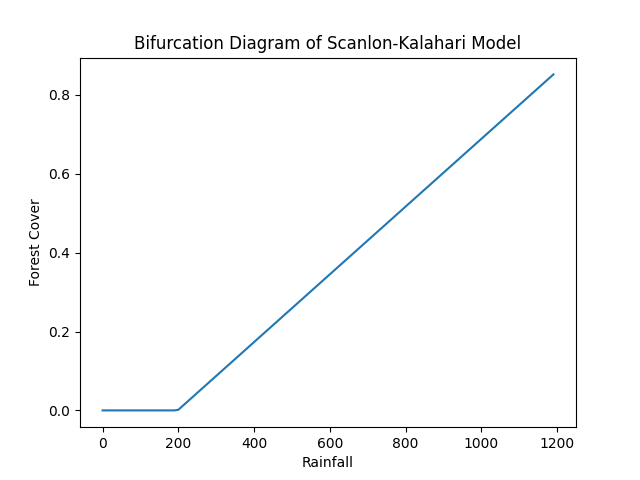
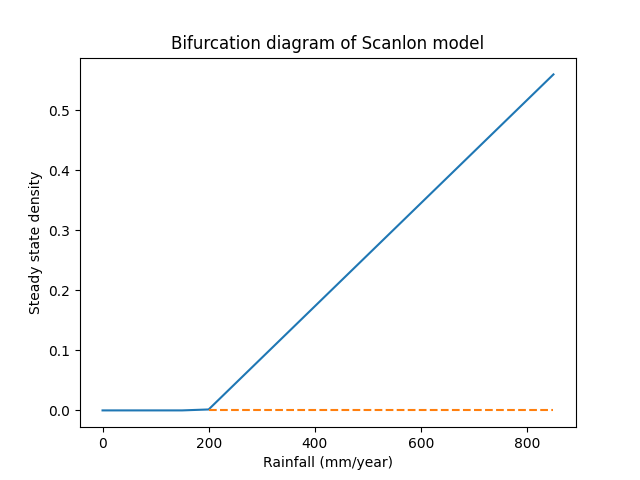
Compiled changes

diff --git a/cluster_dynamics.py b/cluster_dynamics.py
@@ -140,9 +140,12 @@ def test_growth():
     plt.subplot(121)
     plt.title("Initial lattice")
     plt.imshow(old_labels)
+    plt.axis("off")
     plt.subplot(122)
     plt.title("Grown cluster")
     plt.imshow(new_labels)
+    plt.axis("off")
+    # plt.savefig("growth.png", bbox_inches="tight")
     plt.show()
 
 
@@ -165,9 +168,12 @@ def test_decay():
     plt.subplot(121)
     plt.title("Initial lattice")
     plt.imshow(old_labels)
+    plt.axis("off")
     plt.subplot(122)
     plt.title("Decayed cluster")
     plt.imshow(new_labels)
+    plt.axis("off")
+    # plt.savefig("decay.png", bbox_inches="tight")
     plt.show()
 
 
@@ -193,9 +199,12 @@ def test_merge():
     plt.subplot(121)
     plt.title("Initial lattice")
     plt.imshow(old_labels)
+    plt.axis("off")
     plt.subplot(122)
     plt.title("Merged cluster")
     plt.imshow(new_labels)
+    plt.axis("off")
+    # plt.savefig("merge.png", bbox_inches="tight")
     plt.show()
 
 
@@ -220,10 +229,13 @@ def test_split():
     plt.figure(figsize=(8, 4))
     plt.subplot(121)
     plt.title("Initial lattice")
+    plt.axis("off")
     plt.imshow(old_labels)
     plt.subplot(122)
     plt.title("Split cluster")
+    plt.axis("off")
     plt.imshow(new_labels)
+    # plt.savefig("split.png", bbox_inches="tight")
     plt.show()
 
 def test_appearance():
@@ -244,10 +256,13 @@ def test_appearance():
     plt.figure(figsize=(8, 4))
     plt.subplot(121)
     plt.title("Initial lattice")
+    plt.axis("off")
     plt.imshow(old_labels)
     plt.subplot(122)
     plt.title("Appeared cluster")
+    plt.axis("off")
     plt.imshow(new_labels)
+    # plt.savefig("appearance.png", bbox_inches="tight")
     plt.show()
 
 
@@ -270,9 +285,12 @@ def test_disappearance():
     plt.subplot(121)
     plt.title("Initial lattice")
     plt.imshow(old_labels)
+    plt.axis('off')
     plt.subplot(122)
     plt.title("Disappeared cluster")
     plt.imshow(new_labels)
+    plt.axis('off')
+    # plt.savefig("disappearance.png", bbox_inches="tight")
     plt.show()
 
 

diff --git a/thesis_code/scanon_transitions/phase_transition.py b/thesis_code/scanon_transitions/phase_transition.py
@@ -1,0 +1,16 @@
+from matplotlib import pyplot as plt
+
+
+if __name__ == '__main__':
+    slope = 0.0008588
+    y_intercept = -0.1702
+    rainfall_values = [50 * x for x in range(0, 18)]
+    
+    y = [max(slope * x + y_intercept, 0) for x in rainfall_values]
+
+    plt.title('Bifurcation diagram of Scanlon model')
+    plt.xlabel('Rainfall (mm/year)')
+    plt.ylabel('Steady state density')
+    plt.plot(rainfall_values, y)
+    plt.plot(rainfall_values[4:], [0 for _ in range(4, 18)], linestyle='dashed')
+    plt.show()
